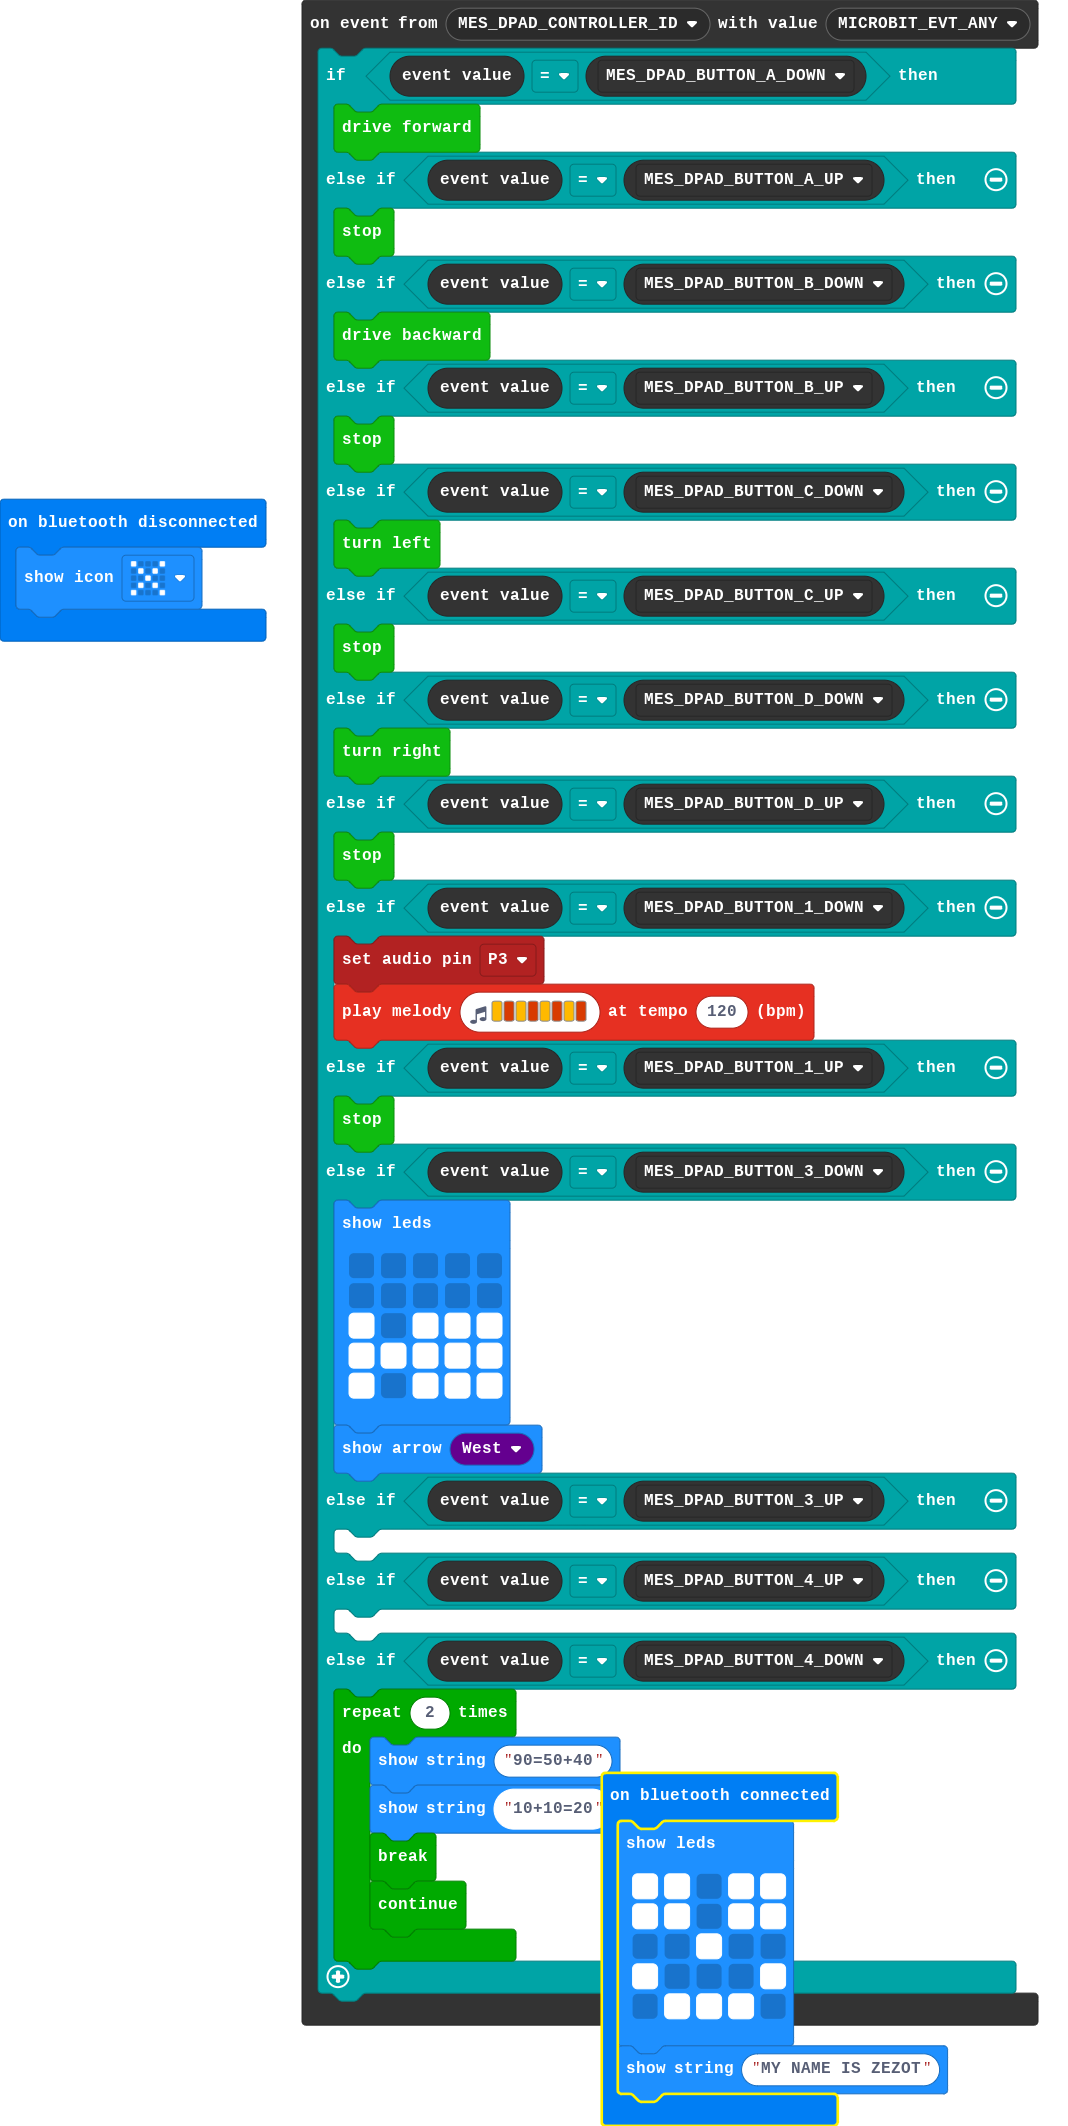
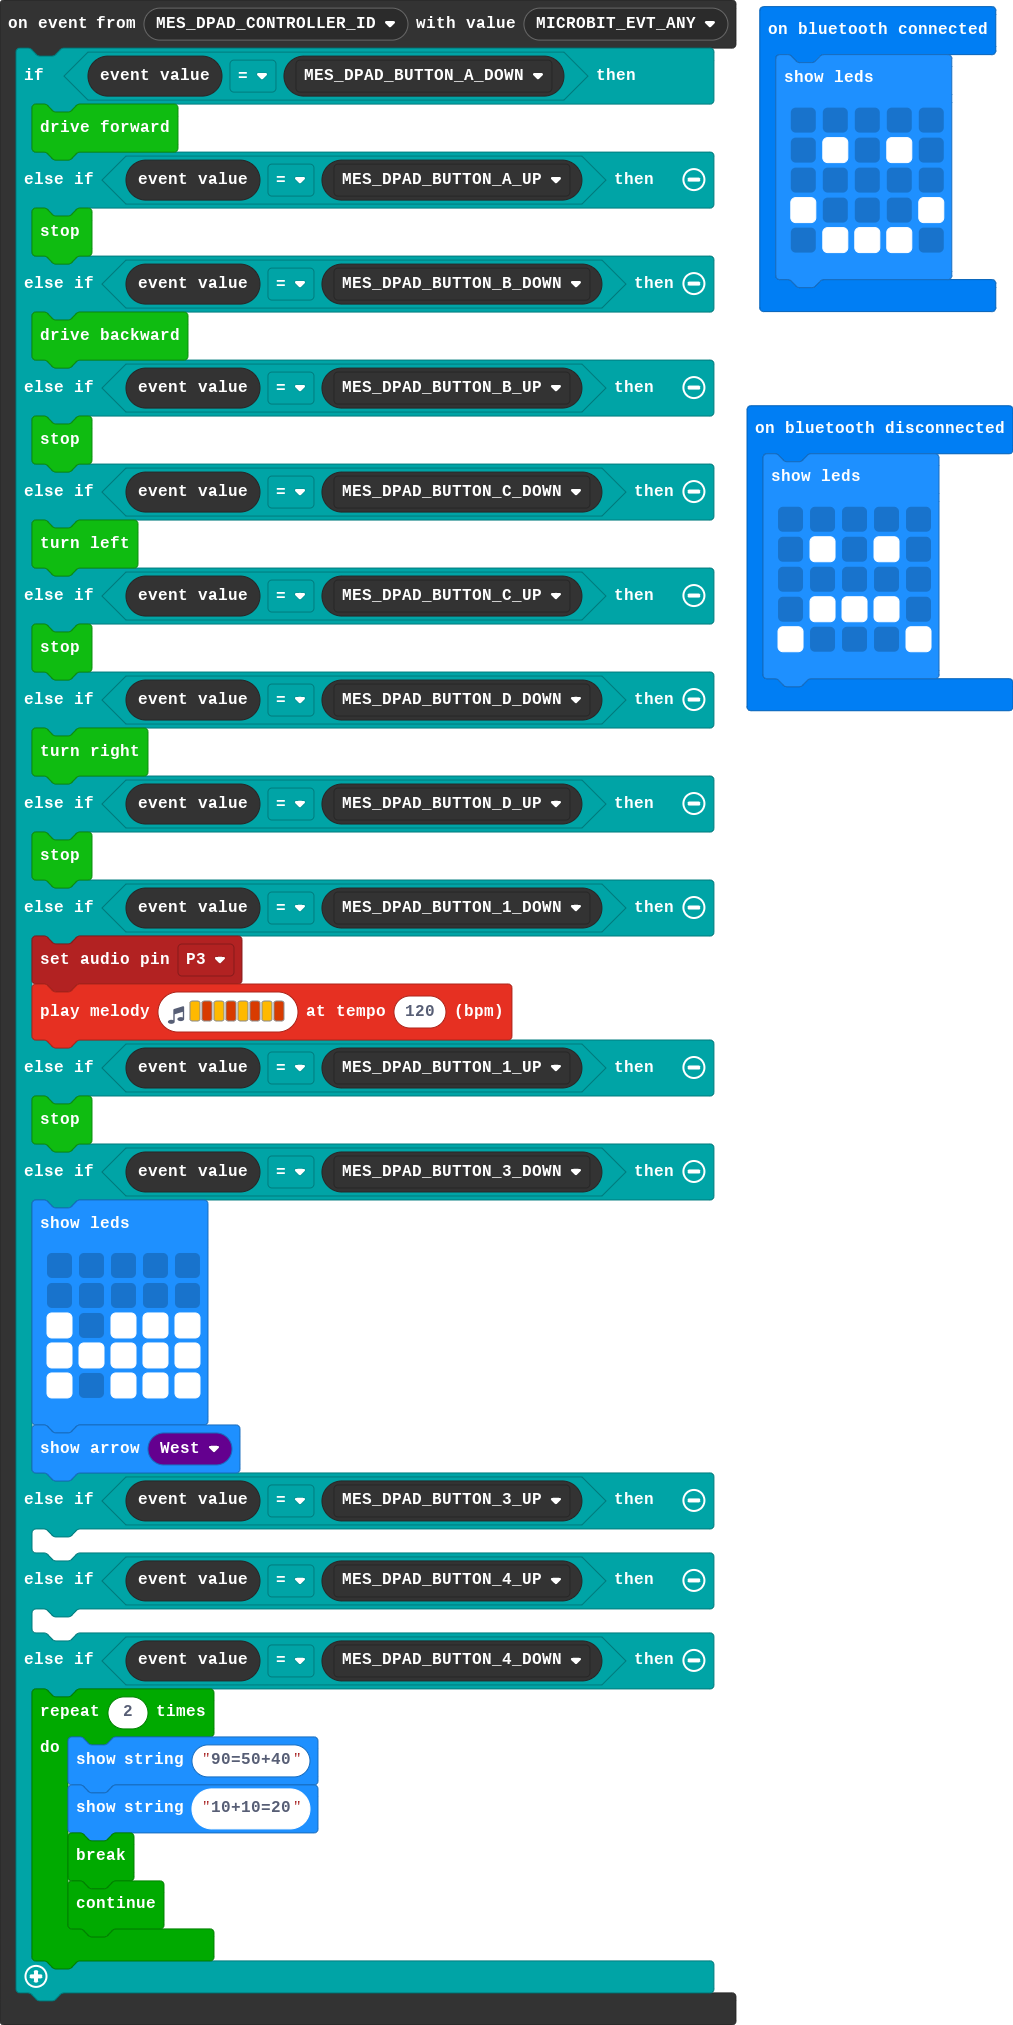
Update pxt.json, main.blocks, main.ts

diff --git a/main.ts b/main.ts
@@ -1,15 +1,20 @@
 bluetooth.onBluetoothConnected(function () {
     basic.showLeds(`
-        # # . # #
-        # # . # #
-        . . # . .
+        . . . . .
+        . # . # .
+        . . . . .
         # . . . #
         . # # # .
         `)
-    basic.showString("MY NAME IS ZEZOT")
 })
 bluetooth.onBluetoothDisconnected(function () {
-    basic.showIcon(IconNames.No)
+    basic.showLeds(`
+        . . . . .
+        . # . # .
+        . . . . .
+        . # # # .
+        # . . . #
+        `)
 })
 control.onEvent(EventBusSource.MES_DPAD_CONTROLLER_ID, EventBusValue.MICROBIT_EVT_ANY, function () {
     if (control.eventValue() == EventBusValue.MES_DPAD_BUTTON_A_DOWN) {
